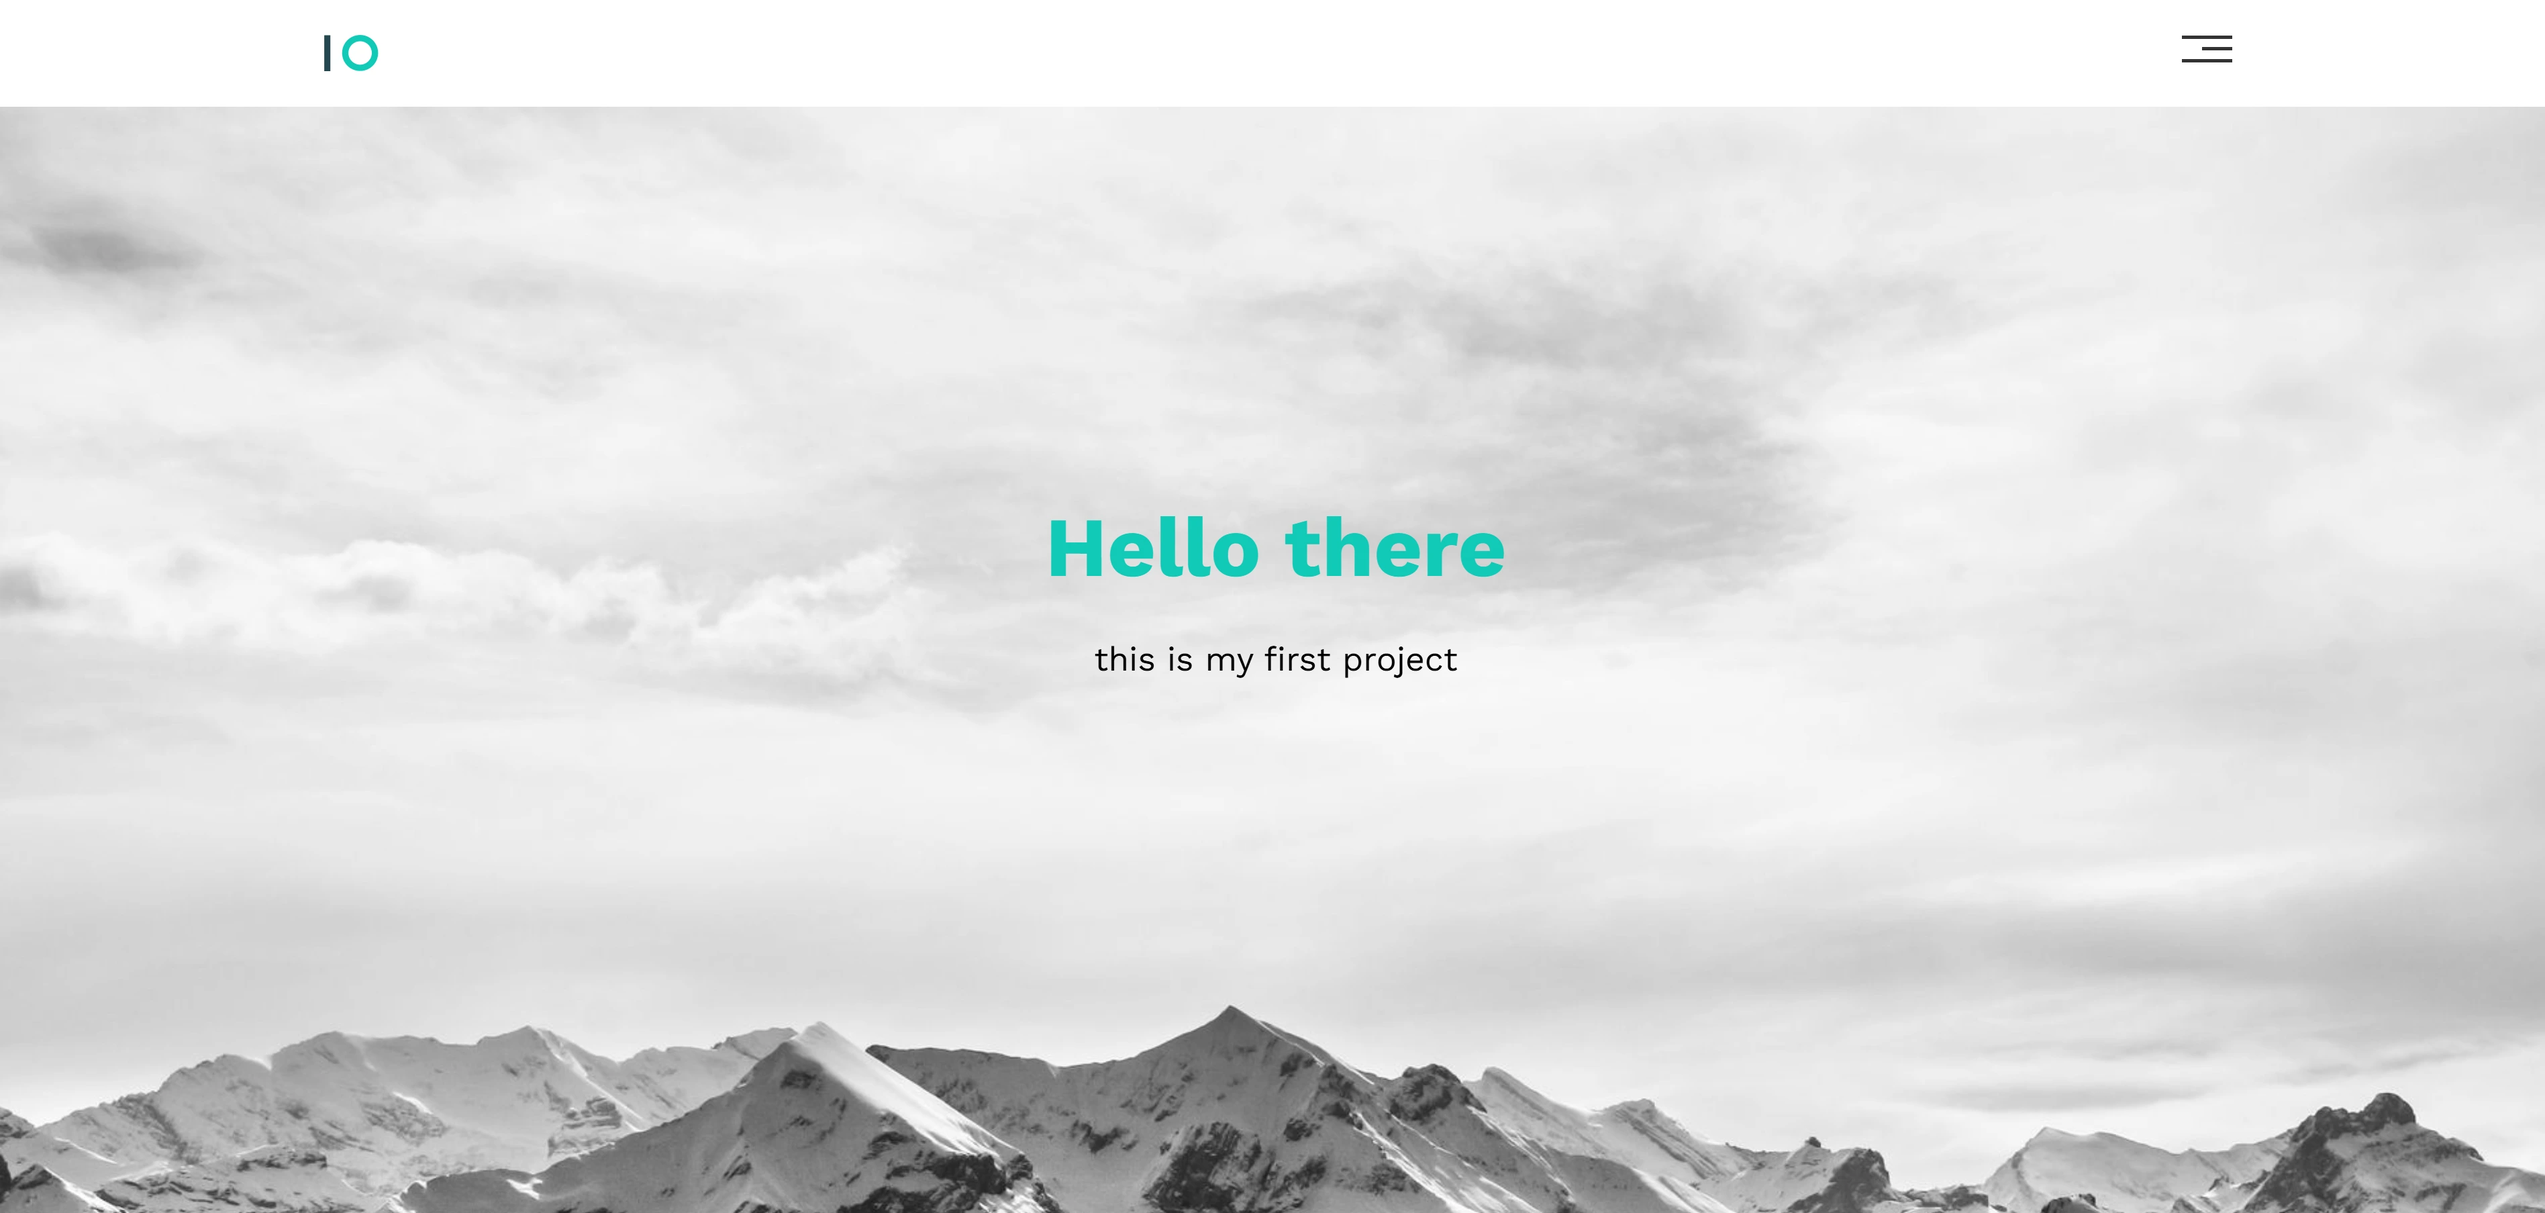
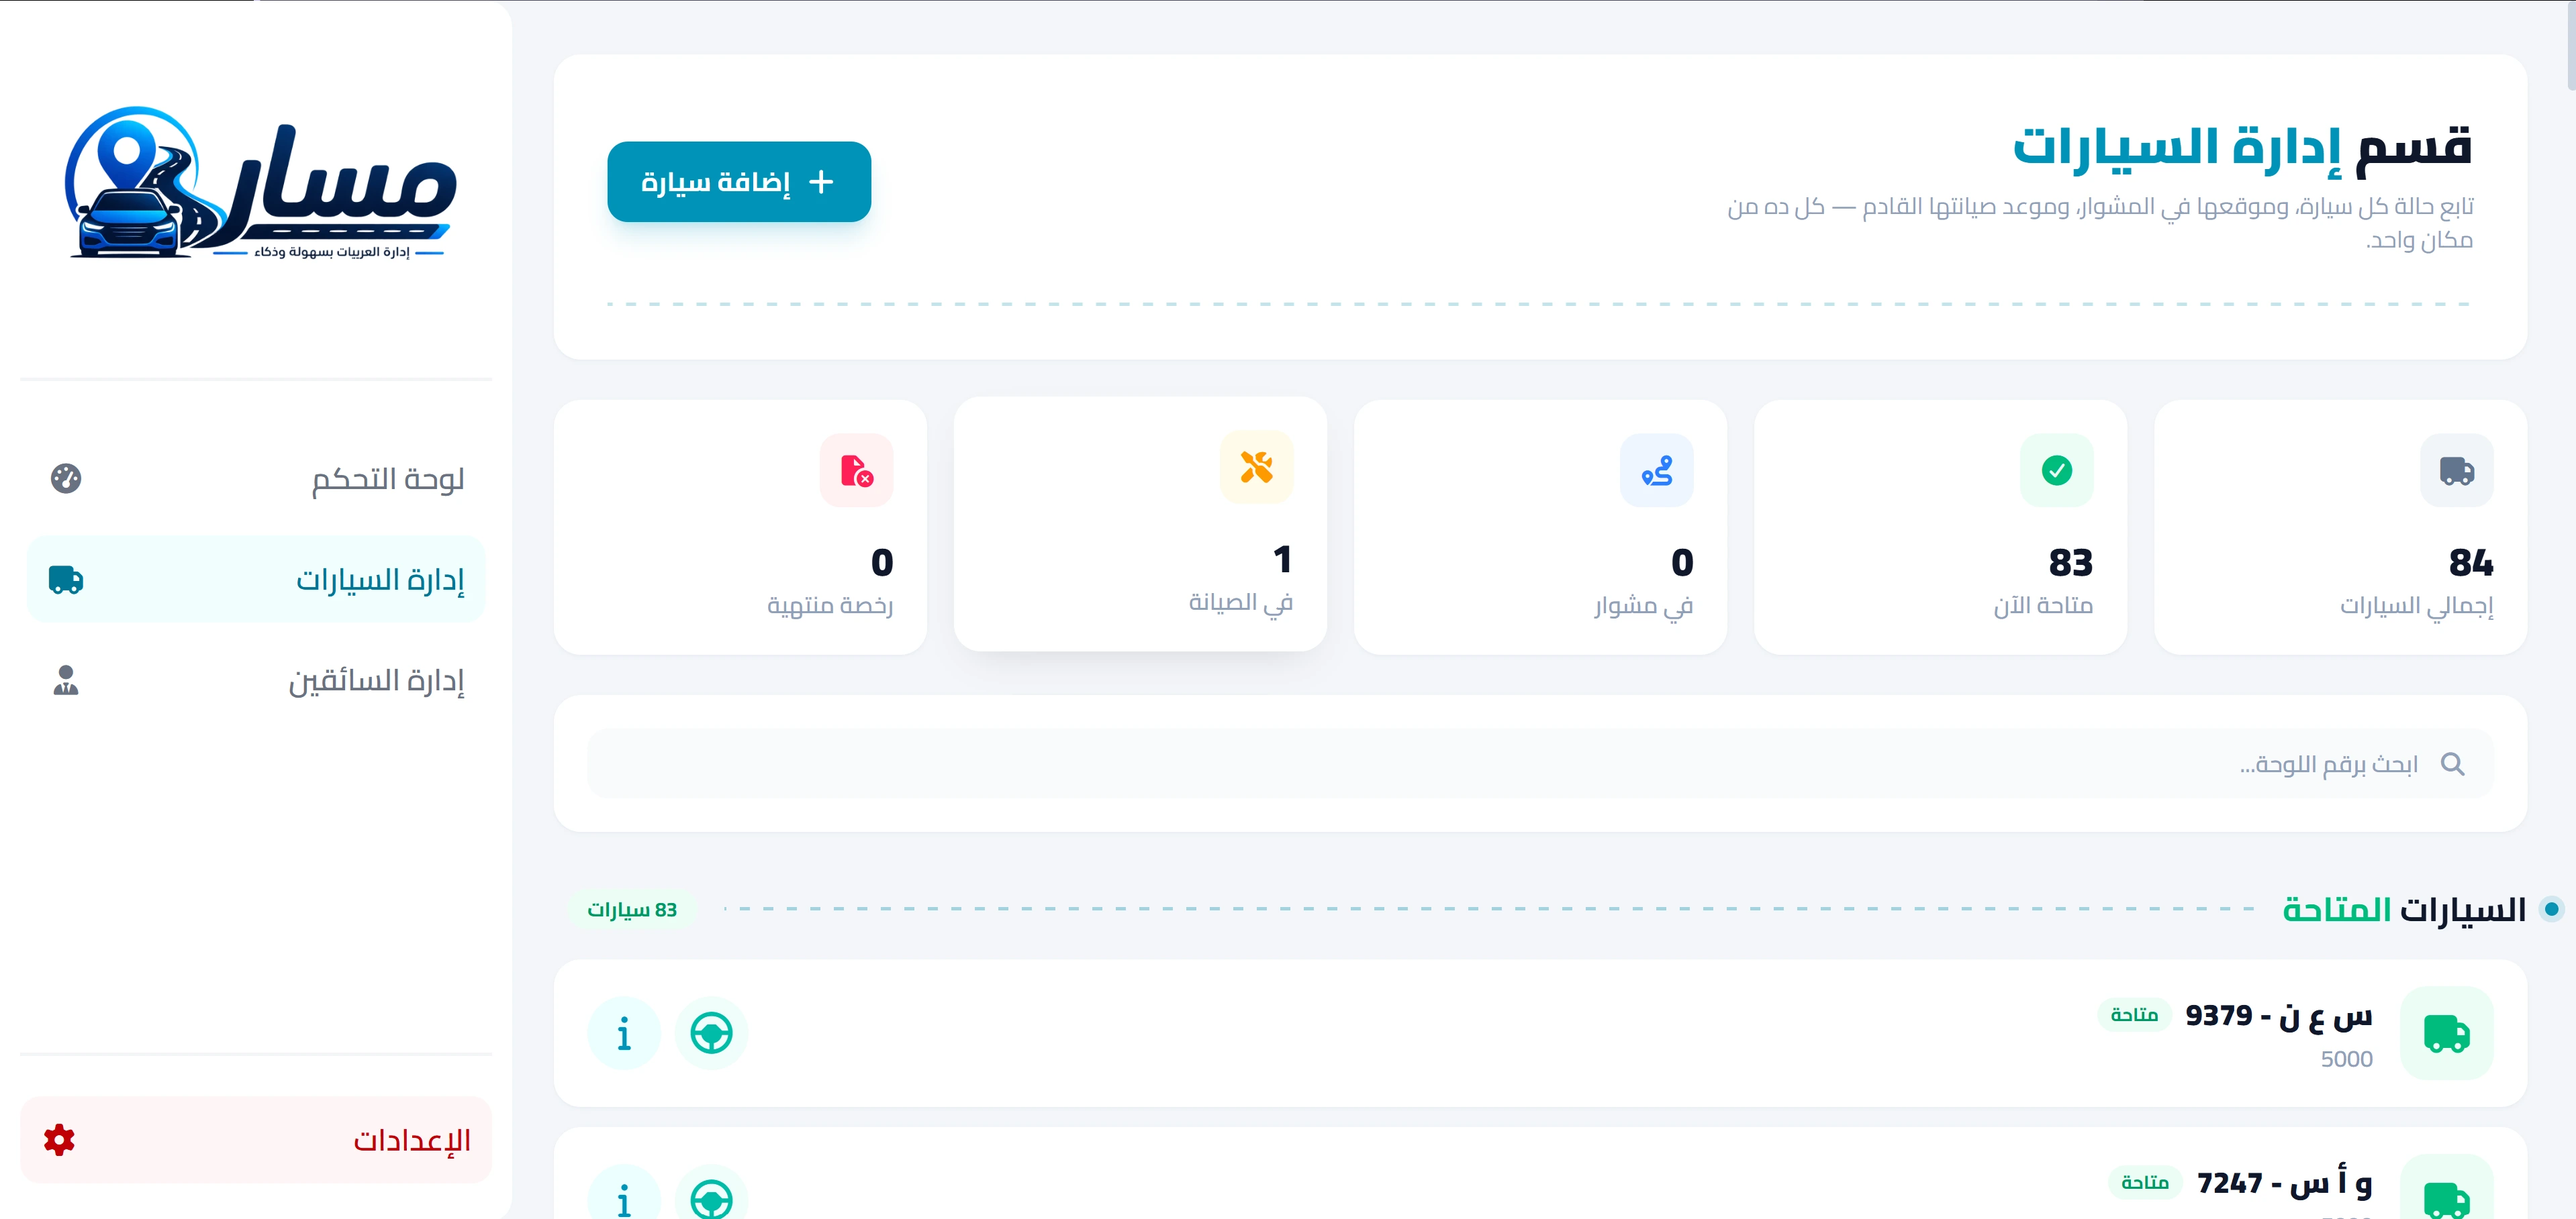
update projects

diff --git a/index.html b/index.html
@@ -157,30 +157,28 @@
                         </div>
                         <div class="card-body d-flex flex-column justify-content-evenly gap-md-3 p-3">
                             <div class="d-flex justify-content-between align-items-center mb-2">
-                                <h3 class="card-title mb-0">Restaurant</h3>
+                                <h3 class="card-title mb-0">Di Nsw</h3>
                                 <div class="d-flex justify-content-center align-items-center gap-2 date-group">
                                     <i class="bi bi-calendar-fill"></i>
-                                    <span>13/12/2025</span>
+                                    <span>4/8/2026</span>
                                 </div>
                             </div>
                             <div class="card-text">
                                 <p class="text-secondary">
-                                    A sleek, responsive restaurant website, crafted with the latest technologies to
-                                    deliver
-                                    a seamless and captivating user experience. Modern design that highlights every
-                                    detail
-                                    of the restaurant and draws visitors in from the very first glance.
+                                    A modern responsive clothing store featuring product search and filtering, a shopping cart, and order integration with
+                                    Google Sheets without requiring a backend or database, along with SEO optimization for better search engine visibility...
                                 </p>
                             </div>
                             <div class="d-flex flex-column gap-3 mb-3 mb-md-0 mb-lg-3 ">
                                 <h4 class="mb-0">Technologies</h4>
                                 <div class="technologies">
                                     <span class="tech">HTML</span>
-                                    <span class="tech">CSS</span>
+                                    <span class="tech">Tailwind CSS</span>
                                     <span class="tech">JavaScript</span>
+                                    <span class="tech">Google APIS</span>
                                 </div>
                             </div>
-                            <a href="https://magdy-dev311.github.io/field-training-restaurant/" target="_blank"
+                            <a href="https://dinsw.vercel.app/" target="_blank"
                                 title="go to this website"
                                 class="btn btn-primary d-flex w-100 justify-content-center align-items-center gap-2 rounded-3 ">
                                 <i class="ni bi-globe2"></i>
@@ -195,30 +193,29 @@
                         </div>
                         <div class="card-body d-flex flex-column justify-content-evenly gap-md-3 p-3">
                             <div class="d-flex justify-content-between align-items-center mb-2">
-                                <h3 class="card-title mb-0">Field Training</h3>
+                                <h3 class="card-title mb-0">Dr Shady Platform</h3>
                                 <div class="d-flex justify-content-center align-items-center gap-2 date-group">
                                     <i class="bi bi-calendar-fill"></i>
-                                    <span>27/12/2025</span>
+                                    <span>22/7/2026</span>
                                 </div>
                             </div>
                             <div class="card-text">
                                 <p class="text-secondary">
-                                    During my field training at We Applied Technology School, I designed a portfolio
-                                    using HTML, CSS, JavaScript, and
-                                    Bootstrap, which helped me enhance my skills and grow my expertise in web
-                                    development.
+                                    An educational platform for Dr. Shady Fayed, showcasing his information and educational services with an integrated
+                                    booking system and direct WhatsApp integration. The platform features a responsive design, smooth user experience, and
+                                    SEO optimization...
                                 </p>
                             </div>
                             <div class="d-flex flex-column gap-3 mb-3 mb-md-0 mb-lg-3 ">
                                 <h4 class="mb-0">Technologies</h4>
                                 <div class="technologies">
                                     <span class="tech">HTML</span>
-                                    <span class="tech">CSS</span>
+                                    <span class="tech">Tailwind CSS</span>
                                     <span class="tech">JavaScript</span>
-                                    <span class="tech">BootStrap</span>
+                                    <span class="tech">Whatsapp API</span>
                                 </div>
                             </div>
-                            <a href="https://magdy-dev311.github.io/Field-training-three/" target="_blank"
+                            <a href="https://drshady.vercel.app/" target="_blank"
                                 title="go to this website"
                                 class="btn btn-primary d-flex w-100 justify-content-center align-items-center gap-2 rounded-3 ">
                                 <i class="ni bi-globe2"></i>
@@ -232,28 +229,29 @@
                         </div>
                         <div class="card-body d-flex flex-column justify-content-evenly gap-md-3 p-3">
                             <div class="d-flex justify-content-between align-items-center mb-2">
-                                <h3 class="card-title mb-0">Landing-page</h3>
+                                <h3 class="card-title mb-0">Cars Management</h3>
                                 <div class="d-flex justify-content-center align-items-center gap-2 date-group">
                                     <i class="bi bi-calendar-fill"></i>
-                                    <span>15/8/2025</span>
+                                    <span>16/8/2026</span>
                                 </div>
                             </div>
                             <div class="card-text">
                                 <p class="text-secondary ">
-                                    it's my first web development project using HTML and CSS. It showcases the
-                                    foundational skills I learned and was a
-                                    significant milestone in my journey. The project reflects my passion for learning
-                                    and growth.
+                                    The project addresses the challenge of losing track of vehicles and their status, which can lead to wasted time and poor
+                                    organization. It provides a simple platform to manage vehicles and track trips, issues, accidents, and license
+                                    expirations in one place...
                                 </p>
                             </div>
                             <div class="d-flex flex-column gap-3 mb-3 mb-md-0 mb-lg-3 ">
                                 <h4 class="mb-0">Technologies</h4>
                                 <div class="technologies">
                                     <span class="tech">HTML</span>
-                                    <span class="tech">CSS</span>
+                                    <span class="tech">Tailwind CSS</span>
+                                    <span class="tech">JavaScript</span>
+                                    <span class="tech">Whatsapp API</span>
                                 </div>
                             </div>
-                            <a href="https://magdy-dev311.github.io/first-project/" target="_blank"
+                            <a href="https://masar-waleed.vercel.app/" target="_blank"
                                 title="go to this website"
                                 class="btn btn-primary d-flex w-100 justify-content-center align-items-center gap-2 rounded-3 ">
                                 <i class="ni bi-globe2"></i>

diff --git a/style.css b/style.css
@@ -601,8 +601,8 @@ body.dark footer {
     font-size: 15.5px;
     line-height: 1.7;
     color: #6b7280 !important;
-    text-align: justify;
     transition: .3s;
+    flex: 1;
 }
 
 #projects .card .date-group {
